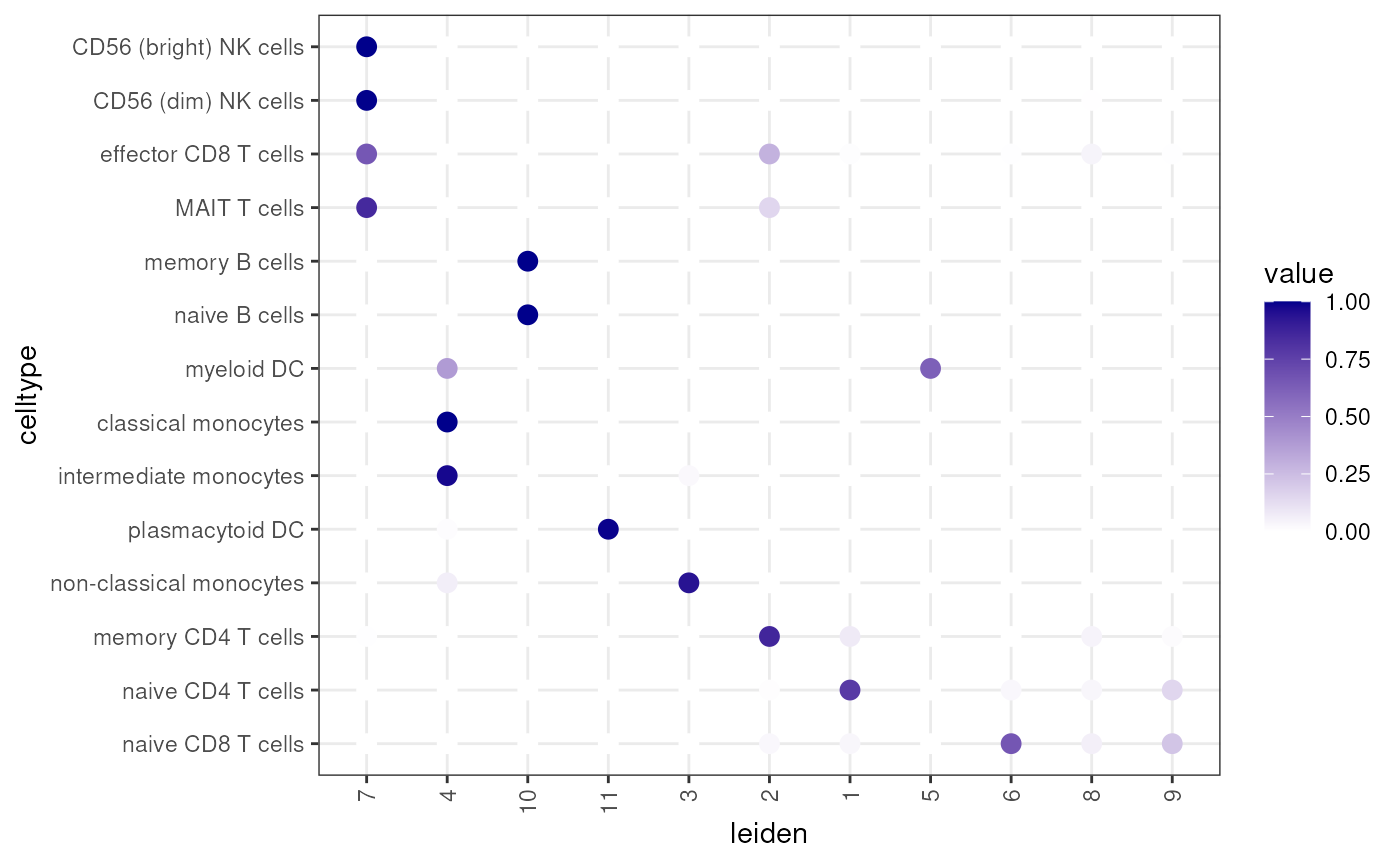
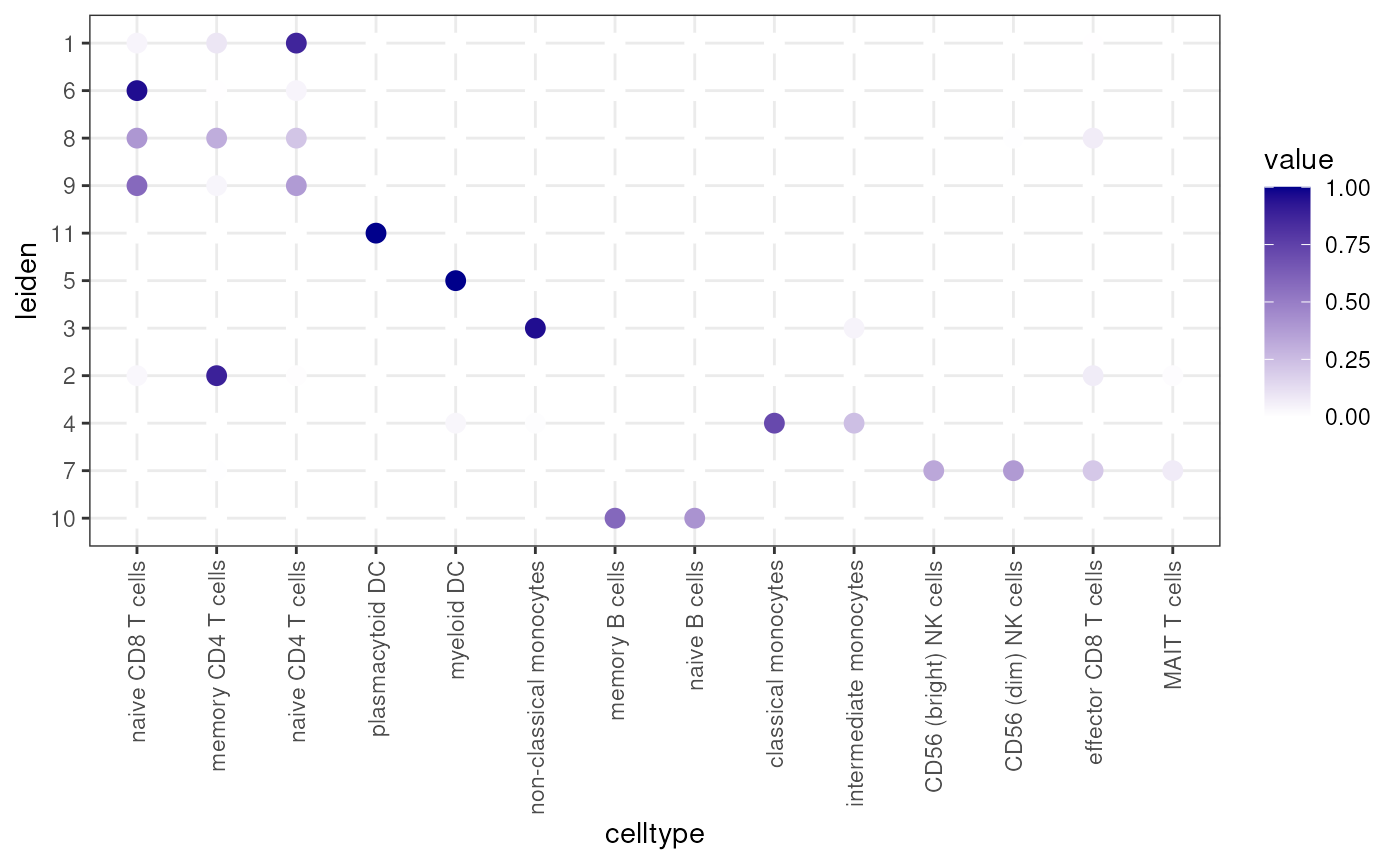
Deploying to gh-pages from @ drighelli/scrobinv2@ec4385b9dbc101afe294f6eea073e195cd1d2284 🚀

diff --git a/articles/OSCA_SCMM.html b/articles/OSCA_SCMM.html
@@ -43,19 +43,19 @@
 </li>
 <li class="dropdown">
   <a href="#" class="dropdown-toggle" data-toggle="dropdown" role="button" data-bs-toggle="dropdown" aria-expanded="false">
-    Articles
+    Workflow
 
     <span class="caret"></span>
   </a>
   <ul class="dropdown-menu" role="menu">
 <li>
-      <a href="../articles/OSCA_SCMM.html">3. OSCA Human Improved Analysis</a>
+      <a href="../articles/RobinSingleCellVignetteNew.html">1. Seurat Robin Single Cell Vignette</a>
     </li>
     <li>
       <a href="../articles/OSCATabulaMuris.html">2. OSCA Tabula Muris Analysis</a>
     </li>
     <li>
-      <a href="../articles/RobinSingleCellVignetteNew.html">1. Seurat Robin Single Cell Vignette</a>
+      <a href="../articles/OSCA_SCMM.html">3. OSCA Human Improved Analysis</a>
     </li>
   </ul>
 </li>
@@ -84,7 +84,7 @@
                         <h4 data-toc-skip class="author">Dario
 Righelli</h4>
             
-            <h4 data-toc-skip class="date">2025-06-06</h4>
+            <h4 data-toc-skip class="date">2025-06-08</h4>
       
       <small class="dont-index">Source: <a href="https://github.com/drighelli/scrobinv2/blob/devel/vignettes/OSCA_SCMM.Rmd" class="external-link"><code>vignettes/OSCA_SCMM.Rmd</code></a></small>
       <div class="hidden name"><code>OSCA_SCMM.Rmd</code></div>
@@ -380,15 +380,15 @@ annotations on the x axis.</p>
 <code class="sourceCode R"><span><span class="co"># source(system.file("scripts", "functions.R", package = "scrobinv2"))</span></span>
 <span><span class="kw"><a href="https://rdrr.io/r/base/source.html" class="external-link">source</a></span><span class="op">(</span><span class="fu">get_data_path</span><span class="op">(</span><span class="st">"functions.R"</span><span class="op">)</span><span class="op">)</span></span>
 <span><span class="va">df</span> <span class="op">&lt;-</span> <span class="fu"><a href="https://rdrr.io/r/base/as.data.frame.html" class="external-link">as.data.frame</a></span><span class="op">(</span><span class="fu"><a href="https://rdrr.io/pkg/SummarizedExperiment/man/SummarizedExperiment-class.html" class="external-link">colData</a></span><span class="op">(</span><span class="va">sce</span><span class="op">)</span><span class="op">)</span></span>
-<span><span class="fu">clusterDotPlot</span><span class="op">(</span><span class="va">df</span>, <span class="st">"celltype"</span>, <span class="st">"leiden"</span><span class="op">)</span></span></code></pre></div>
+<span><span class="fu">clusterDotPlot</span><span class="op">(</span><span class="va">df</span>, <span class="st">"leiden"</span>, <span class="st">"celltype"</span><span class="op">)</span></span></code></pre></div>
 <pre><code><span><span class="co">## [1] "ARI = 0.64"</span></span></code></pre>
 <p><img src="OSCA_SCMM_files/figure-html/plot-clusters-1.png" width="700"></p>
 <div class="sourceCode" id="cb42"><pre class="downlit sourceCode r">
-<code class="sourceCode R"><span><span class="fu">clusterDotPlot</span><span class="op">(</span><span class="va">df</span>, <span class="st">"celltype"</span>, <span class="st">"singleR"</span><span class="op">)</span></span></code></pre></div>
+<code class="sourceCode R"><span><span class="fu">clusterDotPlot</span><span class="op">(</span><span class="va">df</span>, <span class="st">"singleR"</span>, <span class="st">"celltype"</span><span class="op">)</span></span></code></pre></div>
 <pre><code><span><span class="co">## [1] "ARI = 0.64"</span></span></code></pre>
 <p><img src="OSCA_SCMM_files/figure-html/plot-clusters-2.png" width="700"></p>
 <div class="sourceCode" id="cb44"><pre class="downlit sourceCode r">
-<code class="sourceCode R"><span><span class="fu">clusterDotPlot</span><span class="op">(</span><span class="va">df</span>, <span class="st">"celltype"</span>, <span class="st">"singleRLeiden"</span><span class="op">)</span></span></code></pre></div>
+<code class="sourceCode R"><span><span class="fu">clusterDotPlot</span><span class="op">(</span><span class="va">df</span>, <span class="st">"singleRLeiden"</span>, <span class="st">"celltype"</span><span class="op">)</span></span></code></pre></div>
 <pre><code><span><span class="co">## [1] "ARI = 0.66"</span></span></code></pre>
 <p><img src="OSCA_SCMM_files/figure-html/plot-clusters-3.png" width="700"></p>
 </div>
@@ -502,7 +502,7 @@ types.</p>
 <span><span class="co">##  [91] alabaster.matrix_1.6.1    perturbR_0.1.3           </span></span>
 <span><span class="co">##  [93] lmom_3.2                  png_0.1-8                </span></span>
 <span><span class="co">##  [95] knitr_1.50                rstudioapi_0.17.1        </span></span>
-<span><span class="co">##  [97] tzdb_0.5.0                curl_6.2.3               </span></span>
+<span><span class="co">##  [97] tzdb_0.5.0                curl_6.3.0               </span></span>
 <span><span class="co">##  [99] proxy_0.4-27              cachem_1.1.0             </span></span>
 <span><span class="co">## [101] rhdf5_2.50.2              stringr_1.5.1            </span></span>
 <span><span class="co">## [103] rootSolve_1.8.2.4         BiocVersion_3.20.0       </span></span>

diff --git a/articles/RobinSingleCellVignetteNew.html b/articles/RobinSingleCellVignetteNew.html
@@ -43,19 +43,19 @@
 </li>
 <li class="dropdown">
   <a href="#" class="dropdown-toggle" data-toggle="dropdown" role="button" data-bs-toggle="dropdown" aria-expanded="false">
-    Articles
+    Workflow
 
     <span class="caret"></span>
   </a>
   <ul class="dropdown-menu" role="menu">
 <li>
-      <a href="../articles/OSCA_SCMM.html">3. OSCA Human Improved Analysis</a>
+      <a href="../articles/RobinSingleCellVignetteNew.html">1. Seurat Robin Single Cell Vignette</a>
     </li>
     <li>
       <a href="../articles/OSCATabulaMuris.html">2. OSCA Tabula Muris Analysis</a>
     </li>
     <li>
-      <a href="../articles/RobinSingleCellVignetteNew.html">1. Seurat Robin Single Cell Vignette</a>
+      <a href="../articles/OSCA_SCMM.html">3. OSCA Human Improved Analysis</a>
     </li>
   </ul>
 </li>
@@ -84,7 +84,7 @@
                         <h4 data-toc-skip class="author">Valeria
 Policastro</h4>
             
-            <h4 data-toc-skip class="date">2025-06-06</h4>
+            <h4 data-toc-skip class="date">2025-06-08</h4>
       
       <small class="dont-index">Source: <a href="https://github.com/drighelli/scrobinv2/blob/devel/vignettes/RobinSingleCellVignetteNew.Rmd" class="external-link"><code>vignettes/RobinSingleCellVignetteNew.Rmd</code></a></small>
       <div class="hidden name"><code>RobinSingleCellVignetteNew.Rmd</code></div>
@@ -202,8 +202,8 @@ Policastro</h4>
 <span><span class="va">graph</span> <span class="op">&lt;-</span> <span class="fu">igraph</span><span class="fu">::</span><span class="fu"><a href="https://r.igraph.org/reference/graph_from_edgelist.html" class="external-link">graph_from_edgelist</a></span><span class="op">(</span><span class="va">edge</span>, directed<span class="op">=</span><span class="cn">FALSE</span><span class="op">)</span></span>
 <span><span class="va">graph</span> <span class="op">&lt;-</span> <span class="fu">igraph</span><span class="fu">::</span><span class="fu"><a href="https://r.igraph.org/reference/simplify.html" class="external-link">simplify</a></span><span class="op">(</span><span class="va">graph</span><span class="op">)</span></span>
 <span><span class="va">graph</span></span></code></pre></div>
-<pre><code><span><span class="co">## IGRAPH 7690973 U--- 532 14421 -- </span></span>
-<span><span class="co">## + edges from 7690973:</span></span>
+<pre><code><span><span class="co">## IGRAPH 5557615 U--- 532 14421 -- </span></span>
+<span><span class="co">## + edges from 5557615:</span></span>
 <span><span class="co">##  [1] 1--  2 1--  8 1-- 13 1-- 14 1-- 17 1-- 27 1-- 42 1-- 63 1-- 65 1-- 71</span></span>
 <span><span class="co">## [11] 1-- 79 1-- 95 1-- 99 1--102 1--116 1--131 1--132 1--159 1--161 1--164</span></span>
 <span><span class="co">## [21] 1--172 1--179 1--194 1--197 1--205 1--220 1--258 1--260 1--264 1--267</span></span>
@@ -410,7 +410,7 @@ types.</p>
 <span><span class="co">## [121] xtable_1.8-4           cluster_2.1.8.1        evaluate_1.0.3        </span></span>
 <span><span class="co">## [124] readr_2.1.5            mvtnorm_1.3-3          cli_3.6.5             </span></span>
 <span><span class="co">## [127] compiler_4.4.2         rlang_1.1.6            fdatest_2.1.1         </span></span>
-<span><span class="co">## [130] future.apply_1.11.3    labeling_0.4.3         fds_1.8               </span></span>
+<span><span class="co">## [130] future.apply_1.20.0    labeling_0.4.3         fds_1.8               </span></span>
 <span><span class="co">## [133] plyr_1.8.9             forcats_1.0.0          fs_1.6.6              </span></span>
 <span><span class="co">## [136] stringi_1.8.7          rainbow_3.8            viridisLite_0.4.2     </span></span>
 <span><span class="co">## [139] deldir_2.0-4           BiocParallel_1.40.2    hdrcde_3.4            </span></span>

diff --git a/articles/OSCATabulaMuris.html b/articles/OSCATabulaMuris.html
@@ -43,19 +43,19 @@
 </li>
 <li class="dropdown">
   <a href="#" class="dropdown-toggle" data-toggle="dropdown" role="button" data-bs-toggle="dropdown" aria-expanded="false">
-    Articles
+    Workflow
 
     <span class="caret"></span>
   </a>
   <ul class="dropdown-menu" role="menu">
 <li>
-      <a href="../articles/OSCA_SCMM.html">3. OSCA Human Improved Analysis</a>
+      <a href="../articles/RobinSingleCellVignetteNew.html">1. Seurat Robin Single Cell Vignette</a>
     </li>
     <li>
       <a href="../articles/OSCATabulaMuris.html">2. OSCA Tabula Muris Analysis</a>
     </li>
     <li>
-      <a href="../articles/RobinSingleCellVignetteNew.html">1. Seurat Robin Single Cell Vignette</a>
+      <a href="../articles/OSCA_SCMM.html">3. OSCA Human Improved Analysis</a>
     </li>
   </ul>
 </li>
@@ -84,7 +84,7 @@
                         <h4 data-toc-skip class="author">Dario
 Righelli</h4>
             
-            <h4 data-toc-skip class="date">2025-06-06</h4>
+            <h4 data-toc-skip class="date">2025-06-08</h4>
       
       <small class="dont-index">Source: <a href="https://github.com/drighelli/scrobinv2/blob/devel/vignettes/OSCATabulaMuris.Rmd" class="external-link"><code>vignettes/OSCATabulaMuris.Rmd</code></a></small>
       <div class="hidden name"><code>OSCATabulaMuris.Rmd</code></div>
@@ -440,7 +440,7 @@ types.</p>
 <span><span class="co">##  [37] httr_1.4.7               globals_0.18.0           fitdistrplus_1.2-2      </span></span>
 <span><span class="co">##  [40] rhdf5filters_1.18.1      rstudioapi_0.17.1        UCSC.utils_1.2.0        </span></span>
 <span><span class="co">##  [43] miniUI_0.1.2             generics_0.1.4           base64enc_0.1-3         </span></span>
-<span><span class="co">##  [46] curl_6.2.3               zlibbioc_1.52.0          ScaledMatrix_1.14.0     </span></span>
+<span><span class="co">##  [46] curl_6.3.0               zlibbioc_1.52.0          ScaledMatrix_1.14.0     </span></span>
 <span><span class="co">##  [49] polyclip_1.10-7          GenomeInfoDbData_1.2.13  xtable_1.8-4            </span></span>
 <span><span class="co">##  [52] stringr_1.5.1            desc_1.4.3               pracma_2.4.4            </span></span>
 <span><span class="co">##  [55] doParallel_1.0.17        evaluate_1.0.3           hms_1.1.3               </span></span>
@@ -448,7 +448,7 @@ types.</p>
 <span><span class="co">##  [61] reticulate_1.42.0        readxl_1.4.5             spatstat.data_3.1-6     </span></span>
 <span><span class="co">##  [64] magrittr_2.0.3           lmtest_0.9-40            readr_2.1.5             </span></span>
 <span><span class="co">##  [67] later_1.4.2              viridis_0.6.5            lattice_0.22-7          </span></span>
-<span><span class="co">##  [70] spatstat.geom_3.4-1      future.apply_1.11.3      robustbase_0.99-4-1     </span></span>
+<span><span class="co">##  [70] spatstat.geom_3.4-1      future.apply_1.20.0      robustbase_0.99-4-1     </span></span>
 <span><span class="co">##  [73] scattermore_1.2          cowplot_1.1.3            RcppAnnoy_0.0.22        </span></span>
 <span><span class="co">##  [76] class_7.3-23             Hmisc_5.2-3              pillar_1.10.2           </span></span>
 <span><span class="co">##  [79] StanHeaders_2.32.10      nlme_3.1-168             iterators_1.0.14        </span></span>

diff --git a/articles/index.html b/articles/index.html
@@ -27,18 +27,18 @@
 </li>
 <li class="dropdown">
   <a href="#" class="dropdown-toggle" data-toggle="dropdown" role="button" data-bs-toggle="dropdown" aria-expanded="false">
-    Articles
+    Workflow
 
     <span class="caret"></span>
   </a>
   <ul class="dropdown-menu" role="menu"><li>
-      <a href="../articles/OSCA_SCMM.html">3. OSCA Human Improved Analysis</a>
+      <a href="../articles/RobinSingleCellVignetteNew.html">1. Seurat Robin Single Cell Vignette</a>
     </li>
     <li>
       <a href="../articles/OSCATabulaMuris.html">2. OSCA Tabula Muris Analysis</a>
     </li>
     <li>
-      <a href="../articles/RobinSingleCellVignetteNew.html">1. Seurat Robin Single Cell Vignette</a>
+      <a href="../articles/OSCA_SCMM.html">3. OSCA Human Improved Analysis</a>
     </li>
   </ul></li>
       </ul><ul class="nav navbar-nav navbar-right"><li>
@@ -60,14 +60,14 @@
     </div>
 
     <div class="section ">
-      <h3>All vignettes</h3>
+      <h3>Workflow</h3>
       <p class="section-desc"></p>
 
-      <dl><dt><a href="OSCA_SCMM.html">3. OSCA Human Improved Analysis</a></dt>
+      <dl><dt><a href="RobinSingleCellVignetteNew.html">1. Seurat Robin Single Cell Vignette</a></dt>
         <dd>
         </dd><dt><a href="OSCATabulaMuris.html">2. OSCA Tabula Muris Analysis</a></dt>
         <dd>
-        </dd><dt><a href="RobinSingleCellVignetteNew.html">1. Seurat Robin Single Cell Vignette</a></dt>
+        </dd><dt><a href="OSCA_SCMM.html">3. OSCA Human Improved Analysis</a></dt>
         <dd>
       </dd></dl></div>
   </div>

diff --git a/404.html b/404.html
@@ -43,19 +43,19 @@
 </li>
 <li class="dropdown">
   <a href="https://drighelli.github.io/scrobinv2/#" class="dropdown-toggle" data-toggle="dropdown" role="button" data-bs-toggle="dropdown" aria-expanded="false">
-    Articles
+    Workflow
 
     <span class="caret"></span>
   </a>
   <ul class="dropdown-menu" role="menu">
 <li>
-      <a href="https://drighelli.github.io/scrobinv2/articles/OSCA_SCMM.html">3. OSCA Human Improved Analysis</a>
+      <a href="https://drighelli.github.io/scrobinv2/articles/RobinSingleCellVignetteNew.html">1. Seurat Robin Single Cell Vignette</a>
     </li>
     <li>
       <a href="https://drighelli.github.io/scrobinv2/articles/OSCATabulaMuris.html">2. OSCA Tabula Muris Analysis</a>
     </li>
     <li>
-      <a href="https://drighelli.github.io/scrobinv2/articles/RobinSingleCellVignetteNew.html">1. Seurat Robin Single Cell Vignette</a>
+      <a href="https://drighelli.github.io/scrobinv2/articles/OSCA_SCMM.html">3. OSCA Human Improved Analysis</a>
     </li>
   </ul>
 </li>

diff --git a/reference/index.html b/reference/index.html
@@ -27,18 +27,18 @@
 </li>
 <li class="dropdown">
   <a href="#" class="dropdown-toggle" data-toggle="dropdown" role="button" data-bs-toggle="dropdown" aria-expanded="false">
-    Articles
+    Workflow
 
     <span class="caret"></span>
   </a>
   <ul class="dropdown-menu" role="menu"><li>
-      <a href="../articles/OSCA_SCMM.html">3. OSCA Human Improved Analysis</a>
+      <a href="../articles/RobinSingleCellVignetteNew.html">1. Seurat Robin Single Cell Vignette</a>
     </li>
     <li>
       <a href="../articles/OSCATabulaMuris.html">2. OSCA Tabula Muris Analysis</a>
     </li>
     <li>
-      <a href="../articles/RobinSingleCellVignetteNew.html">1. Seurat Robin Single Cell Vignette</a>
+      <a href="../articles/OSCA_SCMM.html">3. OSCA Human Improved Analysis</a>
     </li>
   </ul></li>
       </ul><ul class="nav navbar-nav navbar-right"><li>

diff --git a/LICENSE-text.html b/LICENSE-text.html
@@ -27,18 +27,18 @@
 </li>
 <li class="dropdown">
   <a href="#" class="dropdown-toggle" data-toggle="dropdown" role="button" data-bs-toggle="dropdown" aria-expanded="false">
-    Articles
+    Workflow
 
     <span class="caret"></span>
   </a>
   <ul class="dropdown-menu" role="menu"><li>
-      <a href="articles/OSCA_SCMM.html">3. OSCA Human Improved Analysis</a>
+      <a href="articles/RobinSingleCellVignetteNew.html">1. Seurat Robin Single Cell Vignette</a>
     </li>
     <li>
       <a href="articles/OSCATabulaMuris.html">2. OSCA Tabula Muris Analysis</a>
     </li>
     <li>
-      <a href="articles/RobinSingleCellVignetteNew.html">1. Seurat Robin Single Cell Vignette</a>
+      <a href="articles/OSCA_SCMM.html">3. OSCA Human Improved Analysis</a>
     </li>
   </ul></li>
       </ul><ul class="nav navbar-nav navbar-right"><li>

diff --git a/LICENSE.html b/LICENSE.html
@@ -27,18 +27,18 @@
 </li>
 <li class="dropdown">
   <a href="#" class="dropdown-toggle" data-toggle="dropdown" role="button" data-bs-toggle="dropdown" aria-expanded="false">
-    Articles
+    Workflow
 
     <span class="caret"></span>
   </a>
   <ul class="dropdown-menu" role="menu"><li>
-      <a href="articles/OSCA_SCMM.html">3. OSCA Human Improved Analysis</a>
+      <a href="articles/RobinSingleCellVignetteNew.html">1. Seurat Robin Single Cell Vignette</a>
     </li>
     <li>
       <a href="articles/OSCATabulaMuris.html">2. OSCA Tabula Muris Analysis</a>
     </li>
     <li>
-      <a href="articles/RobinSingleCellVignetteNew.html">1. Seurat Robin Single Cell Vignette</a>
+      <a href="articles/OSCA_SCMM.html">3. OSCA Human Improved Analysis</a>
     </li>
   </ul></li>
       </ul><ul class="nav navbar-nav navbar-right"><li>

diff --git a/authors.html b/authors.html
@@ -27,18 +27,18 @@
 </li>
 <li class="dropdown">
   <a href="#" class="dropdown-toggle" data-toggle="dropdown" role="button" data-bs-toggle="dropdown" aria-expanded="false">
-    Articles
+    Workflow
 
     <span class="caret"></span>
   </a>
   <ul class="dropdown-menu" role="menu"><li>
-      <a href="articles/OSCA_SCMM.html">3. OSCA Human Improved Analysis</a>
+      <a href="articles/RobinSingleCellVignetteNew.html">1. Seurat Robin Single Cell Vignette</a>
     </li>
     <li>
       <a href="articles/OSCATabulaMuris.html">2. OSCA Tabula Muris Analysis</a>
     </li>
     <li>
-      <a href="articles/RobinSingleCellVignetteNew.html">1. Seurat Robin Single Cell Vignette</a>
+      <a href="articles/OSCA_SCMM.html">3. OSCA Human Improved Analysis</a>
     </li>
   </ul></li>
       </ul><ul class="nav navbar-nav navbar-right"><li>

diff --git a/index.html b/index.html
@@ -44,19 +44,19 @@
 </li>
 <li class="dropdown">
   <a href="#" class="dropdown-toggle" data-toggle="dropdown" role="button" data-bs-toggle="dropdown" aria-expanded="false">
-    Articles
+    Workflow
 
     <span class="caret"></span>
   </a>
   <ul class="dropdown-menu" role="menu">
 <li>
-      <a href="articles/OSCA_SCMM.html">3. OSCA Human Improved Analysis</a>
+      <a href="articles/RobinSingleCellVignetteNew.html">1. Seurat Robin Single Cell Vignette</a>
     </li>
     <li>
       <a href="articles/OSCATabulaMuris.html">2. OSCA Tabula Muris Analysis</a>
     </li>
     <li>
-      <a href="articles/RobinSingleCellVignetteNew.html">1. Seurat Robin Single Cell Vignette</a>
+      <a href="articles/OSCA_SCMM.html">3. OSCA Human Improved Analysis</a>
     </li>
   </ul>
 </li>
